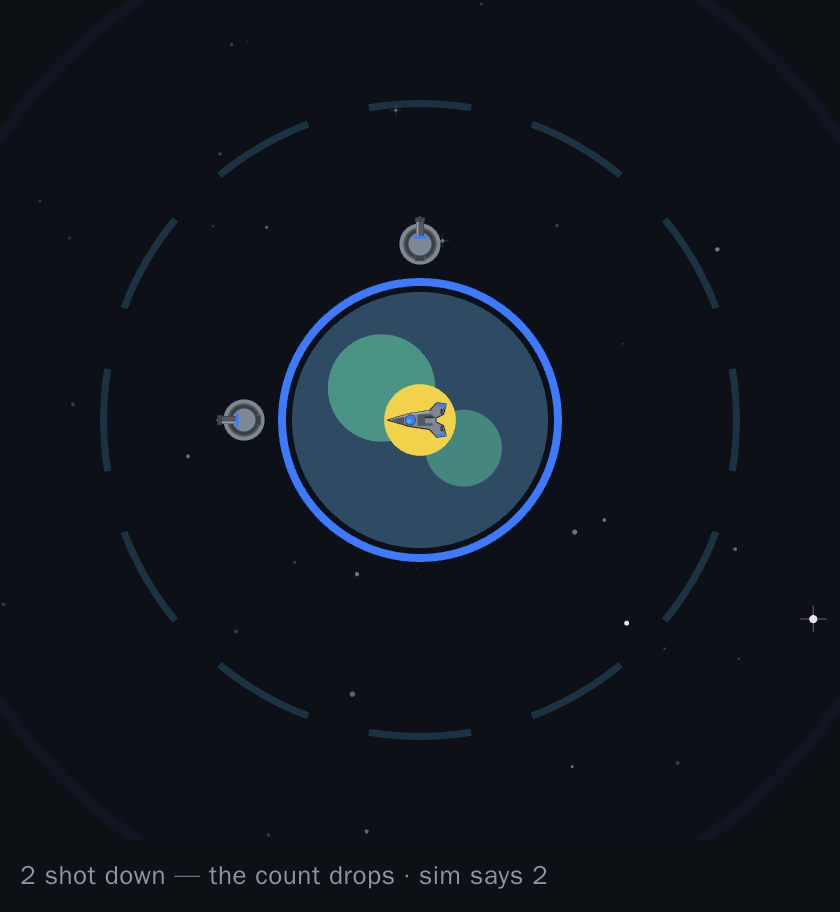
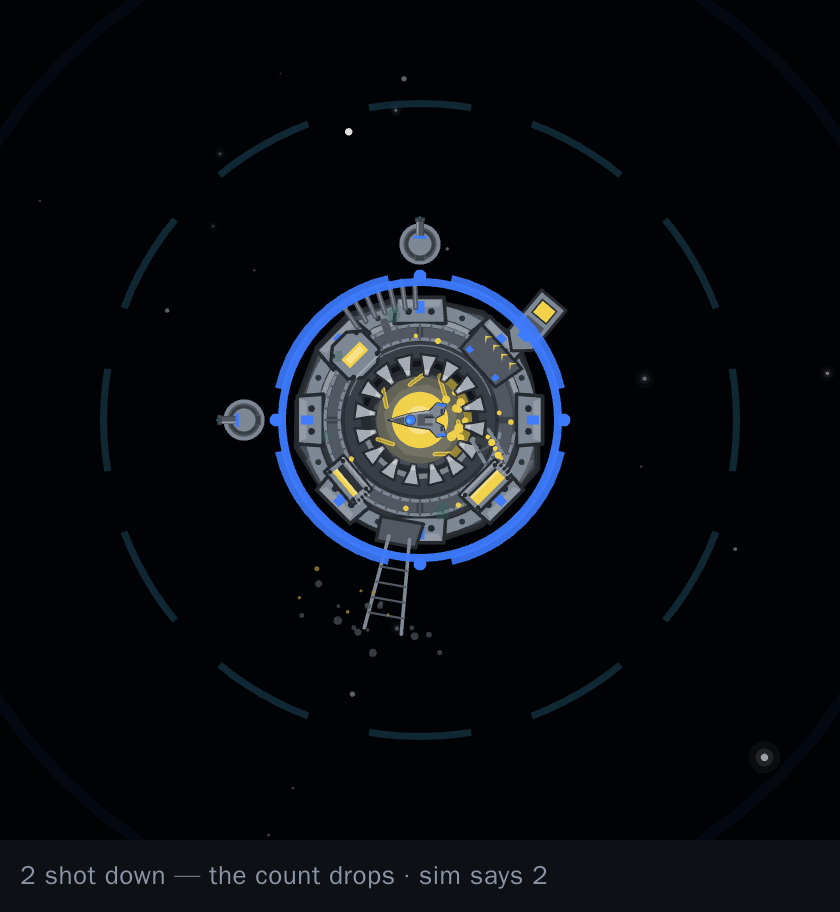
evidence(a2-06): re-shoot the four frames on the Cutterhead, and measure them
The frames in #313 showed origin/main's l1-02b planetoid, because a2-03 was an
open PR when they were taken. a2-03 has merged and the renderer now plays
`stationSprite` through `drawSprite`, so the same rig on the same four scenes now
shoots the hull the developer's amendment is actually about. Re-shot, not
reinvented: `frames.ts` and `capture-frames.mjs` are unchanged.

The two frames the brief turns on are `built-4` (four bought, assembled and
standing on the mounts — four, not eight) and `shot-0` (the ring shot empty).
Looked at every image.

New: `measure-frames.mjs` -> `frames-measured.json`, because a picture of a
station with no guns on it is only evidence if someone measures it.

  * bare vs shot-0: **0 differing pixels**. The ring shot empty is a fresh spawn,
    exactly. A hull that drew its own guns could not produce that.
  * bare vs built-4: 5768 differing pixels, ALL of them between radius 155 and
    204 px against a body radius of 128 px — entirely outboard of the hull. That
    is "the guns are on the buildings layer" as geometry rather than as a claim
    about the source. shot-2 differs by 2898, almost exactly half: two turrets.
  * frames-before/ (the Cutterhead with stations.ts at origin/main) vs frames/:
    0 differing pixels on all four panels, confirming at pixel level what the
    36-configuration deep-equal showed at shape level.

The zoom check from the planetoid pass was WRONG here and is corrected rather
[…]

Changed region(s): [[0.3095, 0.2763, 0.681, 0.7061], [0.9595, 0.6754, 0.9905, 0.7061], [0.4024, 0.6754, 0.4333, 0.7061]]

diff --git a/evidence/a2-04-no-hull-turrets/README.md b/evidence/a2-04-no-hull-turrets/README.md
@@ -1,6 +1,10 @@
-# a2-04 — the Cutterhead carries no turrets
+# a2-04 / a2-06 — the Cutterhead carries no turrets
 
 Evidence for `agent/art/a2-04-no-hull-turrets`. Two claims, two sets of images.
+
+The board half (§1, §4) is a2-04's and stands unchanged — it never depended on
+which hull shipped. The frames (§2, §3) were **re-shot on the Cutterhead** under
+a2-06, once a2-03 landed on `main`.
 
 The developer, 2026-08-07: *"an ammendment to the new mining station, we dont
 need the turrets on it, those will be built externally as it already is...."*
@@ -34,61 +38,82 @@ looked at rather than inferred.
 2 px taller (the rewritten caption reflows), so everything is offset by two rows
 and outlines red. The four solid red blobs at 12/3/6/9 are the real change.
 
-## 2 · The silhouette, against the turret count
+## 2 · The silhouette, against the turret count — ON THE CUTTERHEAD
+
+> **Re-shot 2026-08-09 (a2-06).** The first cut of these frames showed
+> `origin/main`'s l1-02b **planetoid**, because a2-03 was still an open PR. a2-03
+> has since merged (#312) and the renderer now draws the Cutterhead, so these are
+> the same four panels, same rig, on the hull the developer's amendment is
+> actually about. Nothing here was reinvented; it was re-shot.
 
 `npx vite --port 5199` then
 `node evidence/a2-04-no-hull-turrets/capture-frames.mjs`
 
 `frames.html` drives the **shipped** `Renderer` against the **shipped** sim — the
 same `placeOrder` / `updateStations` / `damageTurret` / `sweepDeadTurrets` the
-game runs — at one fixed zoom (the beacon ring measures **273 px** in all four
-panels; see below). Each panel's caption is read back off `data-turrets`, so it
-is the simulation's own count, not a label someone typed.
+game runs. Each panel's caption is read back off `data-turrets`, so it is the
+simulation's own count, not a label someone typed.
 
 | file | sim count | what it proves |
 |---|---|---|
-| `frames/bare.png` | 0 | A fresh station. Nothing standing, nothing drawn. |
-| `frames/built-4.png` | 4 | Four bought at the wheel, assembled, standing on the mounts — **four, not eight**. |
+| `frames/bare.png` | 0 | A fresh Cutterhead. Eight anchor lugs, bare. Nothing standing, nothing drawn. |
+| `frames/built-4.png` | 4 | Four bought at the wheel, assembled, standing outboard on the mounts — **four, not eight**. |
 | `frames/shot-2.png` | 2 | Two shot down and swept. The count drops and the picture drops with it. |
-| `frames/shot-0.png` | 0 | The ring shot empty. Identical to `bare.png`. |
+| `frames/shot-0.png` | 0 | The ring shot empty. **Pixel-identical to `bare.png`.** |
 | `frames/strip.png` | — | All four side by side, which is the argument in one image. |
 
 That last row is the whole brief: **a display whose empty state is
-indistinguishable from its full state will lie to you.** Here they are
-distinguishable, and the hull is the same object in all four.
+indistinguishable from its full state will lie to you.** Here the *full* and
+*empty* states are distinguishable, the empty state is honestly empty, and the
+hull is the same object in all four.
 
-**Zoom check** — beacon-ring span on the centre row, per panel:
+## 3 · The frames, as numbers
 
-```
-bare      840x912  beacon span 273 px  (283 -> 556)
-built-4   840x912  beacon span 273 px  (283 -> 556)
-shot-2    840x912  beacon span 273 px  (283 -> 556)
-shot-0    840x912  beacon span 273 px  (283 -> 556)
-```
+`node evidence/a2-04-no-hull-turrets/measure-frames.mjs` → `frames-measured.json`
 
-## 3 · The generator change renders nothing new
+Three measurements, because a picture of a station with no guns on it is only
+evidence if someone measures it. The `<figcaption>` band is excluded throughout —
+it is DOM text that says different words per panel by design.
 
-`frames-before/` is the same four panels captured with `src/art/stations.ts`
-reverted to `origin/main`. Diffed against `frames/`:
+**a. Same zoom.** Beacon-ring span on the centre row, band-limited to r < 152 px:
 
 ```
-bare      differing pixels: 0   max channel delta: 0
-built-4   differing pixels: 0   max channel delta: 0
-shot-2    differing pixels: 0   max channel delta: 0
-shot-0    differing pixels: 0   max channel delta: 0
+bare 299 px   built-4 299 px   shot-2 299 px   shot-0 299 px   (270 -> 569 in all four)
 ```
 
-`stationSprite`'s output is byte-identical to `origin/main` for all four variants
-(15 / 21 / 12 / 27 shapes). The parts manifest is a re-composition, not a redraw.
-**No golden can move**, and none did.
+The band limit matters and is not a fudge: the ring sits at 140–148 px, a built
+turret's art starts at 155 px, and **both carry the roster colour**. An unbounded
+azure probe reads the guns on the panels that have guns (299 / 367 / 333 / 299)
+and measures nothing about zoom. This is the probe from the planetoid pass,
+corrected — on the old hull the turrets did not sit where they now do.
 
-## What these frames are NOT
+**b. The parts manifest renders nothing new.** `frames-before/` is the same four
+panels with `src/art/stations.ts` reverted to `origin/main` — i.e. the Cutterhead
+*before* the named-parts refactor:
 
-They show `origin/main`'s station body — the l1-02b planetoid — because **a2-03
-is not merged** (open PR #312). They are not a picture of the Cutterhead. They
-are a picture of the *rule*: the hull draws no gun, the buildings layer draws
-every gun, and the count is the truth. That rule is what `STATION_HULL_EXCLUSIONS`
-holds, and it holds whichever body a2-03 lands.
+```
+bare 0    built-4 0    shot-2 0    shot-0 0     differing pixels
+```
+
+Confirms at the pixel level what the shape level already showed: the flattened
+manifest is deep-equal to `origin/main`'s `cutterheadShapes` across 4 variants ×
+8 owners × live/dead. **A re-composition, not a redraw** — so no golden can move
+on account of this branch, and none did.
+
+**c. Where the turrets' pixels actually are.** Every pixel that differs between
+`bare` and the built panels, by distance from the station centre:
+
+| pair | differing px | radial span | entirely outboard of the hull? |
+|---|---|---|---|
+| `bare` vs `shot-0` | **0** | — | the empty ring IS a fresh spawn |
+| `bare` vs `built-4` | 5768 | 155 → 204 px | **yes** (body radius = 128 px) |
+| `bare` vs `shot-2` | 2898 | 156 → 204 px | **yes** |
+
+This is "the guns live on the buildings layer" stated as geometry instead of as a
+claim about the source. Not one pixel inside the 128 px body radius changes when
+four turrets go up — the Cutterhead is the same drawing whether the ring is full
+or empty. And `shot-2` differs by almost exactly half of `built-4` (2898 vs 5768),
+which is two turrets' worth.
 
 ---
 
